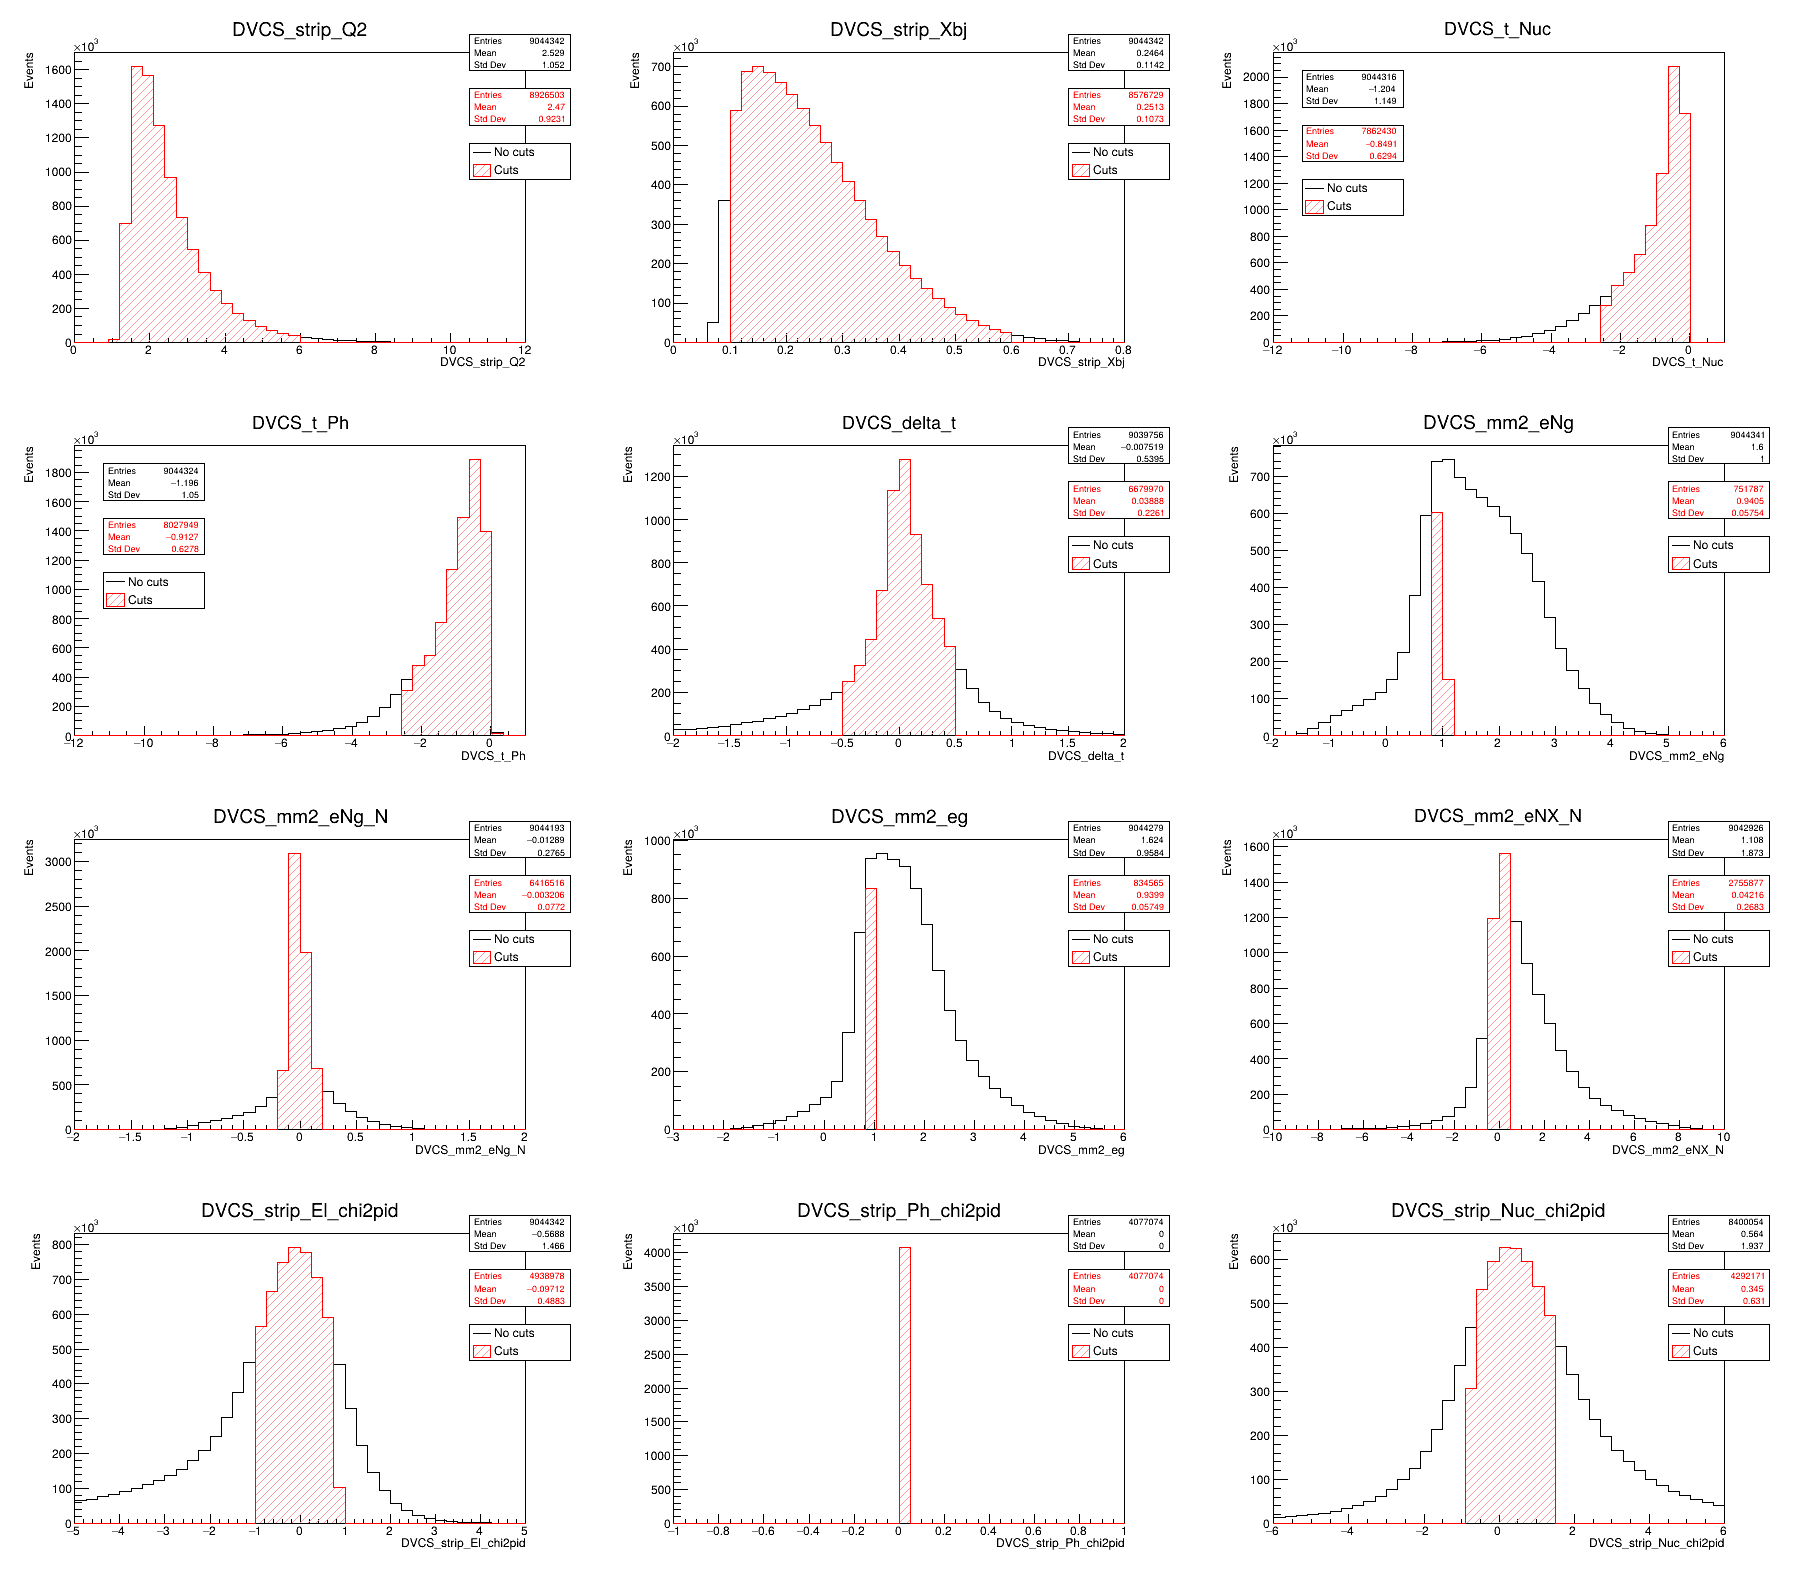
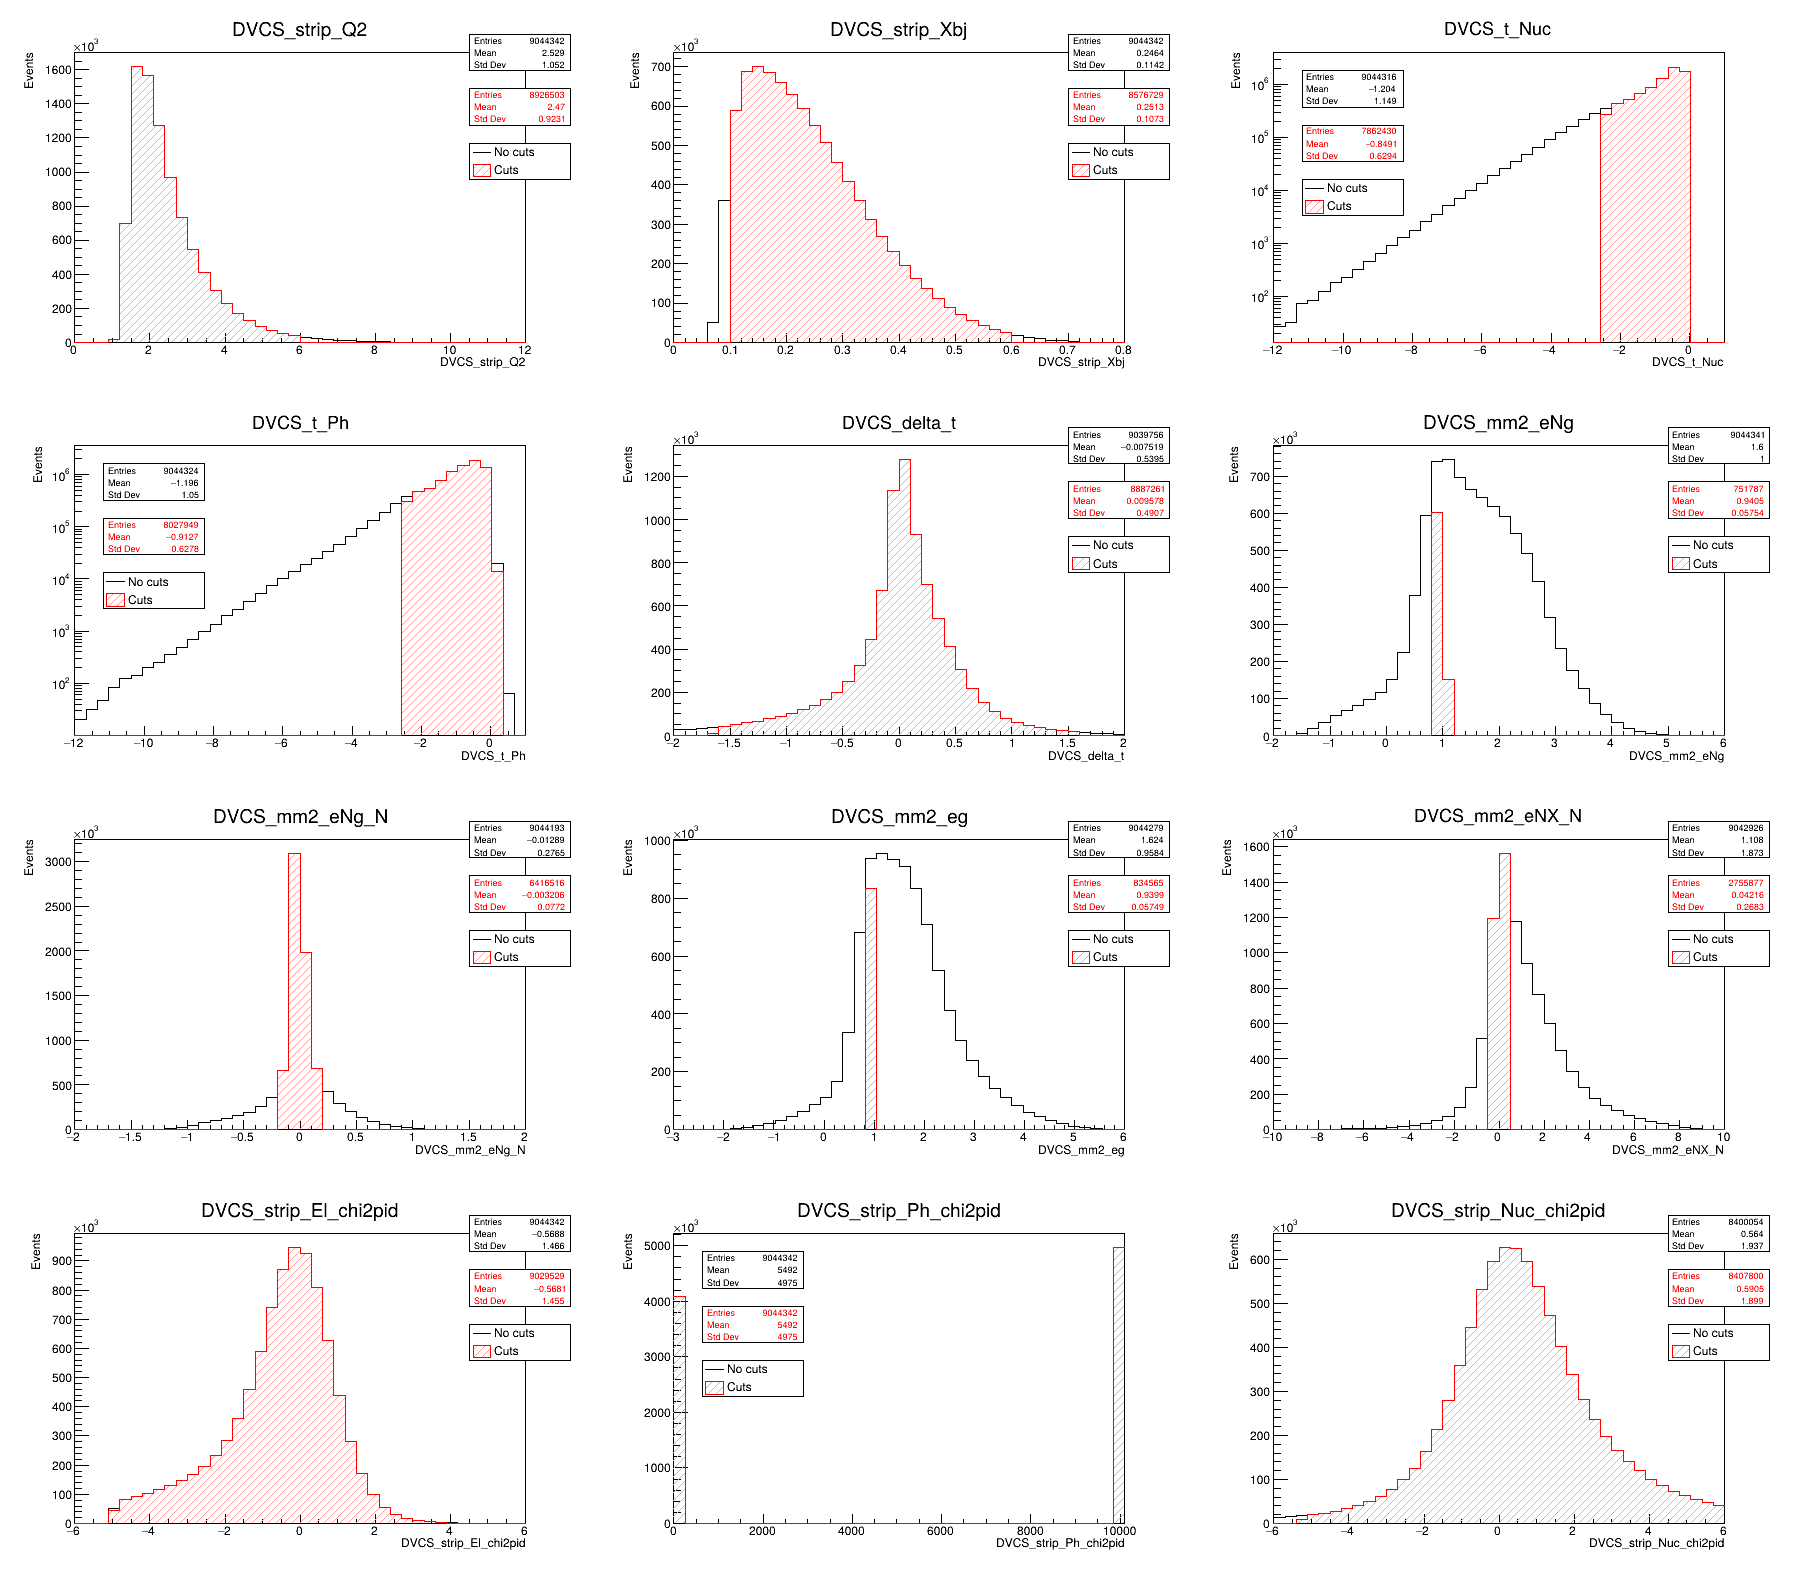
💄 Improve histograms plots.

diff --git a/plot_variables.C b/plot_variables.C
@@ -25,15 +25,37 @@ struct branches_cuts_2D {
   double y_max;
 };
 
+void set_logy (const std::string& branch_name) {
+  std::vector<std::string> logy_branches = {
+    "_t_Nuc",
+    "_t_Ph"
+  };
+  
+  bool is_logy = std::find(logy_branches.begin(), logy_branches.end(), branch_name) != logy_branches.end();
+  if (is_logy) {
+    gPad->SetLogy();
+  }
+}
+
 void stats_legend (TH1D* htemp, TH1D* htemp_cut, const std::string& branch_name) {
+
+  std::vector<std::string> move_stats = {
+    "_t_Nuc",
+    "_t_Ph",
+    "_strip_Ph_chi2pid"
+  };
+
   gPad->Update();
 
   TPaveStats* stats1 = (TPaveStats*)htemp->FindObject("stats");
   TPaveStats* stats2 = (TPaveStats*)htemp_cut->FindObject("stats");
 
-  bool is_t = (branch_name == "_t_Nuc" || branch_name == "_t_Ph");	
+  bool is_t_phi = std::find(move_stats.begin(), move_stats.end(), branch_name) != move_stats.end();
   
-  if (is_t) {
+  set_logy(branch_name);
+
+  if (is_t_phi) {
+    // gPad->SetLogy();
     stats1->SetX1NDC(0.15); stats1->SetX2NDC(0.33);
     stats1->SetY1NDC(0.75); stats1->SetY2NDC(0.85);
   } else {
@@ -42,7 +64,7 @@ void stats_legend (TH1D* htemp, TH1D* htemp_cut, const std::string& branch_name)
   }
   stats1->SetTextColor(kBlack);
   
-  if (is_t) {
+  if (is_t_phi) {
     stats2->SetX1NDC(0.15); stats2->SetX2NDC(0.33);
     stats2->SetY1NDC(0.6); stats2->SetY2NDC(0.7);
   } else {
@@ -52,7 +74,7 @@ void stats_legend (TH1D* htemp, TH1D* htemp_cut, const std::string& branch_name)
   stats2->SetTextColor(kRed);
 
   TLegend* legend;
-  if (is_t) {
+  if (is_t_phi) {
     legend = new TLegend(0.15, 0.45, 0.33, 0.55);
   } else {
     legend = new TLegend(0.8, 0.55, 0.98, 0.65);
@@ -80,22 +102,22 @@ void plot_variables () {
     {"_strip_Xbj", 0, 0.8, 0.1, 0.6}, // Valence region
     {"_t_Nuc", -12, 1, -2.5, 0.1}, // Most of the data
     {"_t_Ph", -12, 1, -2.5, 0.1}, // Same as above
-    {"_delta_t", -2, 2, -0.5, 0.5}, // Almost 0 for DVCS
+    {"_delta_t", -2, 2, -1.62602, 1.61098}, // Almost 0 for DVCS
     {"_mm2_eNg", -2, 6, N_mass - 0.1, N_mass + 0.1}, // Expecting neutron mass
     {"_mm2_eNg_N", -2, 2, -0.2, 0.2}, // Expecting nothing
     {"_mm2_eg", -3, 6, P_mass - 0.1, P_mass + 0.1}, // Expecting missing proton
     {"_mm2_eNX_N", -10, 10, -0.5, 0.5}, // Expecting photon
-    {"_strip_El_chi2pid", -5, 5, -1, 0.8},
-    {"_strip_Ph_chi2pid", -1, 1, -1, 1},
-    {"_strip_Nuc_chi2pid", -6, 6, -0.8, 1.5}
+    {"_strip_El_chi2pid", -6, 6, -4.9668, 3.8292},
+    {"_strip_Ph_chi2pid", -1, 10100, -1, 10100},
+    {"_strip_Nuc_chi2pid", -6, 6, -5.246, 6.376}
   };
 
   gStyle->SetOptStat(0);
   TCanvas *canvas_all = new TCanvas("canvas 1D Histograms", "canvas 1D Histograms", 1800, 1600);
   canvas_all->Divide(3, 4);
-
+  
   int canvas_entry = 1;
-
+  
   for (const auto& branch_name : branch_names) {
     // TCanvas *canvas = new TCanvas(("canvas_" + branch_name.name).c_str(), branch_name.name.c_str(), 800, 600);
     canvas_all->cd(canvas_entry);
